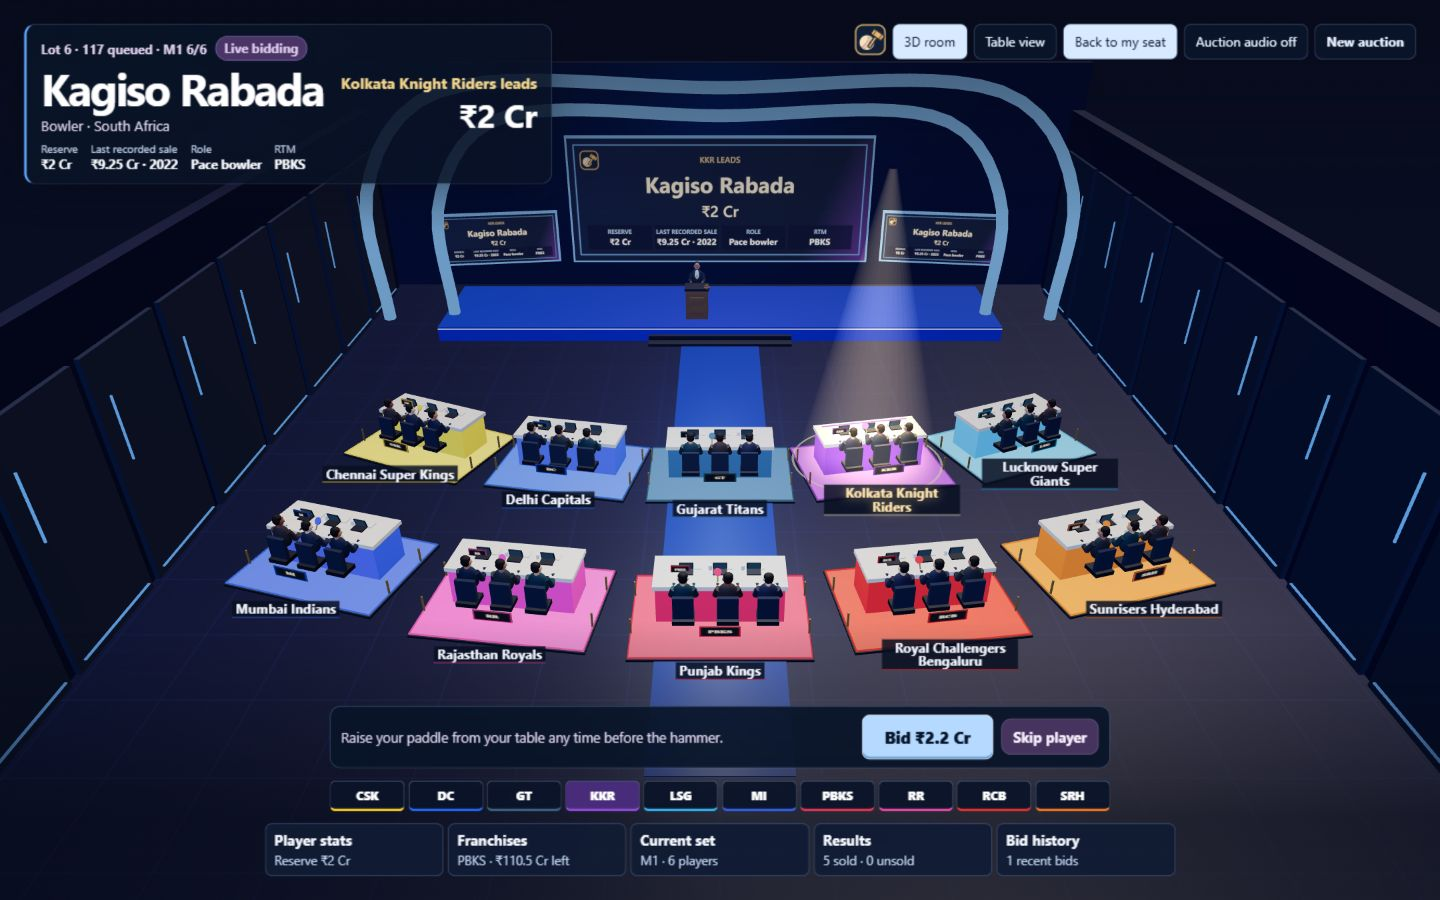
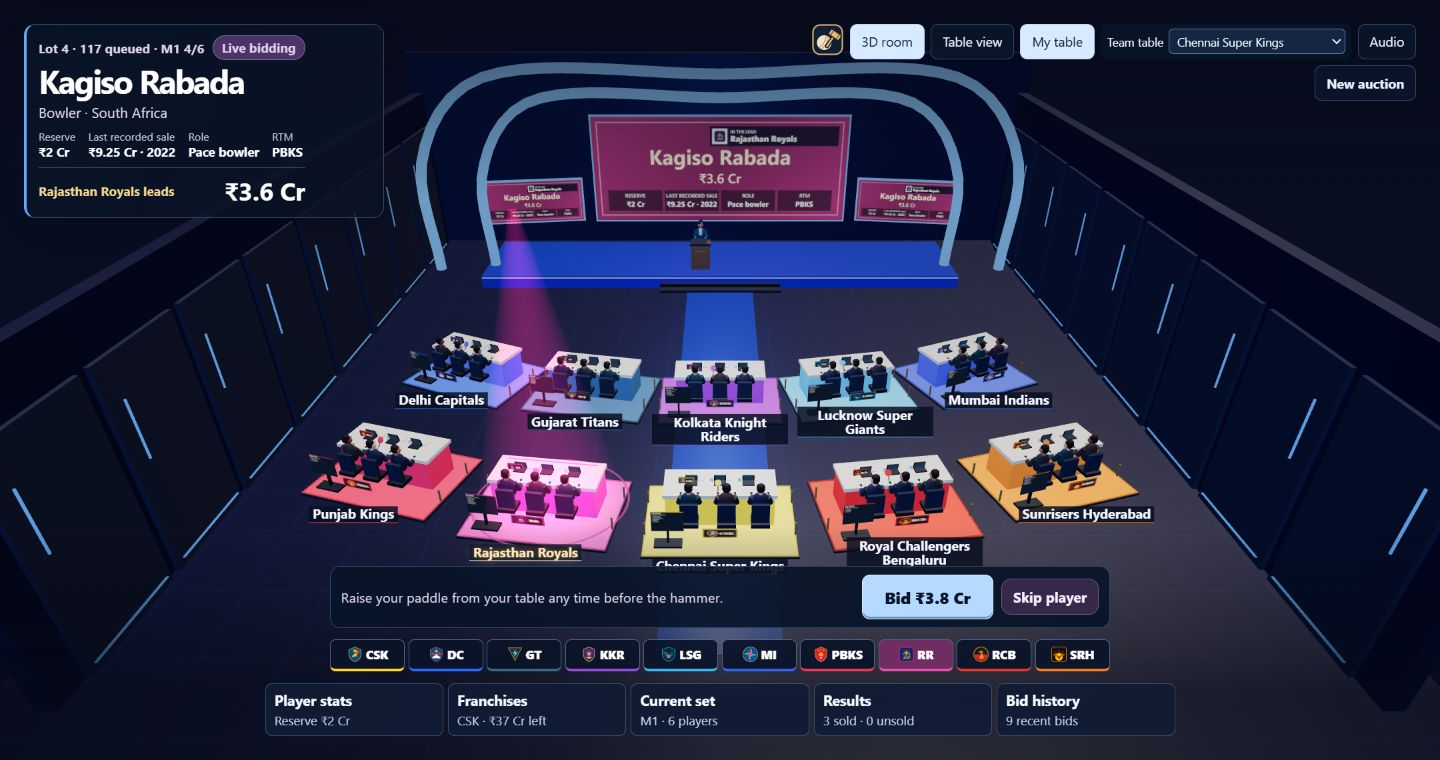
Refresh README screenshots for the final auction UI

diff --git a/README.md b/README.md
@@ -12,9 +12,9 @@ Run one of ten franchises in a browser replay of the **2025 IPL mega auction**. 
 | :---: | :---: | :---: | :---: | :---: |
 | **10** | **577** | **79** | **929** | **₹1.86 Cr** |
 
-![Wide 3D auction room showing all ten team tables, the leading franchise spotlight, live bid controls, and the current player card](docs/screenshots/auction-room.jpg)
+![Wide 3D auction room with ten franchise tables, Kagiso Rabada centered on the stage board, and a pink spotlight on Rajasthan Royals](docs/screenshots/auction-room.jpg)
 
-*The wide camera during a live lot. The overhead spotlight follows the highest bidder.*
+*Live bidding from the wide camera. The stage board shows the leading franchise’s name and logo, and the overhead spotlight matches its colors.*
 
 ## Inside the game
 
@@ -34,6 +34,10 @@ Run one of ten franchises in a browser replay of the **2025 IPL mega auction**. 
 
 *The next set is revealed over the wide-camera arena. Select **Open bidding** when you are ready.*
 
+![View from behind the Chennai Super Kings table showing the roster stand with retained and purchased players](docs/screenshots/table-camera.jpg)
+
+*The camera behind Chennai’s table. The roster stand shows who was retained and who was bought.*
+
 ### How the auction moves
 
 1. **Opening sets.** Players are offered in shuffled order within each set. Teams can pass even when they have room and money.
@@ -51,9 +55,9 @@ During the auction, open **Franchises**, select your team, and choose **Edit Pla
 
 After the auction, finish your lineup and select a wicketkeeper. The final XI requires eleven distinct players and allows at most four overseas players. The editor shows the overseas count and the squad’s available batting and bowling options.
 
-![Playing XI maker showing the batting order, available squad, selected wicketkeeper, overseas count, and save button](docs/screenshots/playing-xi.jpg)
+![Mid-auction Playing XI editor with available squad on the left, batting order on the right, and a Save XI draft button](docs/screenshots/playing-xi.jpg)
 
-*Playing XI editor after a sample Chennai Super Kings auction.*
+*Chennai’s mid-auction draft. Move players between the squad and the batting order, then save the draft before returning to bidding.*
 
 ## Quick start
 
